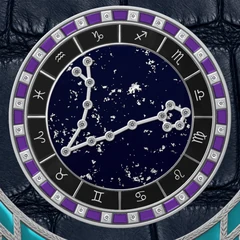
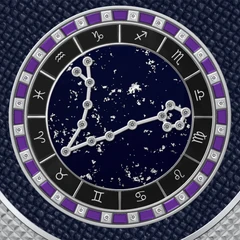
Sign looks set from the art director's codes (v2); preview swatches

Changed region(s): [[0.0, 0.0, 1.0, 1.0], [0.0583, 0.6708, 0.0875, 0.7]]

diff --git a/zodiac-duo.js b/zodiac-duo.js
@@ -24,7 +24,7 @@
 
   var SCRIPT_SRC = (document.currentScript && document.currentScript.src) || "";
   var ASSETS = CFG.assets || SCRIPT_SRC.replace(/[^/]*$/, "") + "assets";
-  var AV = "?v=m27"; // версия ассетов (медальоны v2) — сброс кэша слоёв и свотчей
+  var AV = "?v=m28"; // версия ассетов (медальоны v2) — сброс кэша слоёв и свотчей
   var M = window.ZD_MANIFEST;
   // Медальон в конструкторе чуть меньше слоя PSD (масштаб от центра); общий манифест не трогаем — лендинг видит исходный размер
   var MEDAL_SCALE = 0.9;
@@ -220,30 +220,30 @@
   // Сборки знаков: по одной на знак, палитра — от стихии, сочетания — по правилам цветового круга.
   var ELEM_TONE = { fire: L("Огонь", "Fire"), earth: L("Земля", "Earth"), air: L("Воздух", "Air"), water: L("Вода", "Water") };
   var PRESETS = [
-    { id: "aries", name: L("Пламя", "Flame"), el: "fire", harmony: L("Аналоговая тёплая гамма: красный питон, янтарная эмаль и рубины в жёлтом золоте — огонь от углей до искры.", "Analogous warm palette: red python, amber enamel and rubies in yellow gold."),
-      s: { frame: "gold", medal: "gold", medalOn: 1, plate: "python", plateColor: "red", ring: "gold", decor: "ruby", enamel: "#E8B04A", core: "red", panel: "solid", panelFrame: "gold", panelFill: "meteorite", panelEnamel: null, panelTex: 1, panelMetal: "gold", base: "starwhite" } },
+    { id: "aries", name: L("Пламя", "Flame"), el: "fire", harmony: L("Аналоговая тёплая гамма: красный крокодил, янтарная эмаль и рубины в жёлтом золоте.", "Analogous warm palette: red crocodile, amber enamel and rubies in yellow gold."),
+      s: { frame: "gold", medal: "gold", medalOn: 1, plate: "croc", plateColor: "red", ring: "gold", decor: "ruby", enamel: "#E8B04A", core: "red", panel: "solid", panelFrame: "gold", panelFill: "meteorite", panelEnamel: null, panelTex: 1, panelMetal: "gold", base: "starwhite" } },
     { id: "taurus", name: L("Сад Венеры", "Garden of Venus"), el: "earth", harmony: L("Комплементарная пара: пудрово-розовая кожа и розовое золото против изумрудной эмали.", "Complementary pair: powder-pink leather and rose gold against emerald enamel."),
       s: { frame: "rose", medal: "rose", medalOn: 1, plate: "calf", plateColor: "pink", ring: "rose", decor: "white", enamel: "#0D5E3C", core: "white", panel: "solid", panelFrame: "rose", panelFill: "meteorite", panelEnamel: null, panelTex: 1, panelMetal: "rose", base: "starwhite" } },
-    { id: "gemini", name: L("Двойной свет", "Twin light"), el: "air", harmony: L("Комплементарная пара жёлтый — синий на белом крокодиле; два металла и чёрно-белые камни — дуальность знака.", "Complementary yellow and blue on white crocodile; two metals and black-and-white stones for duality."),
-      s: { frame: "silver", medal: "gold", medalOn: 1, plate: "croc", plateColor: "white", ring: "silver", decor: "black", enamel: "#D9B84A", core: "bluesky", panel: "clear", panelFrame: "silver", panelFill: "enamel", panelEnamel: "#4F7FBF", panelTex: 1, panelMetal: "silver", base: "starwhite" } },
-    { id: "cancer", name: L("Лунный прилив", "Lunar tide"), el: "water", harmony: L("Аналоговая гамма: сапфир и бирюза на белой коже под лунным серебром.", "Analogous palette: sapphire and turquoise on white leather under lunar silver."),
-      s: { frame: "silver", medal: "silver", medalOn: 1, plate: "calf", plateColor: "white", ring: "silver", decor: "white", enamel: "#123E8C", core: "white", panel: "clear", panelFrame: "silver", panelFill: "enamel", panelEnamel: "#14808C", panelTex: 1, panelMetal: "silver", base: "starwhite" } },
-    { id: "leo", name: L("Солнце", "Sun"), el: "fire", harmony: L("Тёплая гамма на чёрном: золото и оранжевая эмаль на кованом карбоне — солнечный диск.", "Warm palette on black: gold and orange enamel on forged carbon — the solar disc."),
-      s: { frame: "gold", medal: "gold", medalOn: 1, plate: "carbon", plateColor: "black", ring: "gold", decor: "white", enamel: "#E07B1A", core: "red", panel: "solid", panelFrame: "gold", panelFill: "meteorite", panelEnamel: null, panelTex: 2, panelMetal: "gold", base: "nightsky" } },
+    { id: "gemini", name: L("Двойной свет", "Twin light"), el: "air", harmony: L("Светлая воздушная гамма: белый крокодил, серебро и дымчато-голубая эмаль.", "Light airy palette: white crocodile, silver and misty-blue enamel."),
+      s: { frame: "silver", medal: "silver", medalOn: 1, plate: "croc", plateColor: "white", ring: "silver", decor: "white", enamel: "#B3C4D5", core: "white", panel: "clear", panelFrame: "silver", panelFill: "enamel", panelEnamel: "#D6E2F0", panelTex: 1, panelMetal: "silver", base: "starwhite" } },
+    { id: "cancer", name: L("Лунный прилив", "Lunar tide"), el: "water", harmony: L("Аналоговая гамма: небесно-голубая кожа, васильковая эмаль и синее небо под лунным серебром.", "Analogous palette: sky-blue leather, cornflower enamel and blue sky under lunar silver."),
+      s: { frame: "silver", medal: "silver", medalOn: 1, plate: "calf", plateColor: "paleblue", ring: "silver", decor: "white", enamel: "#4772BD", core: "bluesky", panel: "solid", panelFrame: "silver", panelFill: "enamel", panelEnamel: "#14808C", panelTex: 1, panelMetal: "silver", base: "starwhite" } },
+    { id: "leo", name: L("Солнце", "Sun"), el: "fire", harmony: L("Контраст золота и чёрного: чёрный крокодил и чёрная эмаль — золото как солнечный диск.", "Gold against black: black crocodile and black enamel — gold as the solar disc."),
+      s: { frame: "gold", medal: "gold", medalOn: 1, plate: "croc", plateColor: "black", ring: "gold", decor: "white", enamel: "#000000", core: "red", panel: "solid", panelFrame: "gold", panelFill: "meteorite", panelEnamel: null, panelTex: 2, panelMetal: "gold", base: "nightsky" } },
     { id: "virgo", name: L("Жатва", "Harvest"), el: "earth", harmony: L("Аналоговая земляная гамма: натуральный питон, шалфей и слоновая кость в жёлтом золоте.", "Analogous earth palette: natural python, sage and ivory in yellow gold."),
       s: { frame: "gold", medal: "gold", medalOn: 1, plate: "python", plateColor: "natural", ring: "gold", decor: "white", enamel: "#7A8B5A", core: "white", panel: "clear", panelFrame: "gold", panelFill: "enamel", panelEnamel: "#EAE2CF", panelTex: 1, panelMetal: "gold", base: "starwhite" } },
     { id: "libra", name: L("Равновесие", "Balance"), el: "air", harmony: L("Пастельная комплементарная пара: пудрово-розовая эмаль и небесно-голубая кожа в равных долях.", "Pastel complementary pair: powder-pink enamel and sky-blue leather in equal measure."),
       s: { frame: "rose", medal: "rose", medalOn: 1, plate: "calf", plateColor: "paleblue", ring: "rose", decor: "white", enamel: "#C98BA0", core: "white", panel: "clear", panelFrame: "rose", panelFill: "enamel", panelEnamel: "#9FC3E0", panelTex: 1, panelMetal: "rose", base: "starwhite" } },
     { id: "scorpio", name: L("Глубина", "Depth"), el: "water", harmony: L("Аналоговая тёмная гамма: фиолетовый питон и глубокая морская бирюза в чёрном титане.", "Analogous dark palette: violet python and deep sea teal in black titanium."),
       s: { frame: "black", medal: "black", medalOn: 1, plate: "python", plateColor: "violet", ring: "black", decor: "metal", enamel: "#0F4C4A", core: "blacksky", panel: "clear", panelFrame: "black", panelFill: "meteorite", panelEnamel: null, panelTex: 1, panelMetal: "black", base: "nightsky" } },
-    { id: "sagittarius", name: L("Стрела", "Arrow"), el: "fire", harmony: L("Аналоговая гамма: бордо, терракота и розовое золото — огонь в движении.", "Analogous palette: bordeaux, terracotta and rose gold — fire in motion."),
-      s: { frame: "rose", medal: "rose", medalOn: 1, plate: "croc", plateColor: "burgundy", ring: "rose", decor: "white", enamel: "#C8461E", core: "white", panel: "clear", panelFrame: "rose", panelFill: "meteorite", panelEnamel: null, panelTex: 1, panelMetal: "rose", base: "starwhite" } },
+    { id: "sagittarius", name: L("Стрела", "Arrow"), el: "fire", harmony: L("Аналоговая гамма: бордо, тёмное вино и розовое золото — сдержанный огонь.", "Analogous palette: bordeaux, dark wine and rose gold — restrained fire."),
+      s: { frame: "rose", medal: "rose", medalOn: 1, plate: "croc", plateColor: "burgundy", ring: "rose", decor: "white", enamel: "#58232B", core: "white", panel: "clear", panelFrame: "rose", panelFill: "meteorite", panelEnamel: null, panelTex: 1, panelMetal: "rose", base: "starwhite" } },
     { id: "capricorn", name: L("Вершина", "Summit"), el: "earth", harmony: L("Строгая земляная гамма: кованый карбон и умбра в чёрном титане, золото — свет на вершине.", "Severe earth palette: forged carbon and umber in black titanium, with gold as light on the summit."),
       s: { frame: "black", medal: "gold", medalOn: 1, plate: "carbon", plateColor: "black", ring: "gold", decor: "black", enamel: "#6B4A2E", core: "blacksky", panel: "solid", panelFrame: "black", panelFill: "meteorite", panelEnamel: null, panelTex: 2, panelMetal: "black", base: "nightsky" } },
-    { id: "aquarius", name: L("Ток", "Current"), el: "air", harmony: L("Расщеплённая комплементарность: голубой питон и бирюза, рубины — точечный тёплый акцент.", "Split complementary: sky-blue python and turquoise, with rubies as a warm accent."),
-      s: { frame: "silver", medal: "silver", medalOn: 1, plate: "python", plateColor: "blue", ring: "silver", decor: "ruby", enamel: "#14808C", core: "bluesky", panel: "solid", panelFrame: "silver", panelFill: "meteorite", panelEnamel: null, panelTex: 1, panelMetal: "silver", base: "nightsky" } },
-    { id: "pisces", name: L("Океан", "Ocean"), el: "water", harmony: L("Аналоговая гамма: аметист, тёмно-синий крокодил и морская волна — переливы глубины.", "Analogous palette: amethyst, navy crocodile and sea green — the shimmer of the deep."),
-      s: { frame: "silver", medal: "silver", medalOn: 1, plate: "croc", plateColor: "navy", ring: "silver", decor: "white", enamel: "#5B2A86", core: "bluesky", panel: "clear", panelFrame: "silver", panelFill: "enamel", panelEnamel: "#14808C", panelTex: 1, panelMetal: "silver", base: "nightsky" } }
+    { id: "aquarius", name: L("Ток", "Current"), el: "air", harmony: L("Холодная гамма: тёмно-синий крокодил и стальная синяя эмаль, рубины — тёплый акцент.", "Cool palette: navy crocodile and steel-blue enamel, with rubies as a warm accent."),
+      s: { frame: "silver", medal: "silver", medalOn: 1, plate: "croc", plateColor: "navy", ring: "silver", decor: "ruby", enamel: "#2F4F6F", core: "white", panel: "solid", panelFrame: "silver", panelFill: "meteorite", panelEnamel: null, panelTex: 1, panelMetal: "silver", base: "nightsky" } },
+    { id: "pisces", name: L("Океан", "Ocean"), el: "water", harmony: L("Аналоговая гамма: аметист, тёмно-синяя кожа и морская волна — переливы глубины.", "Analogous palette: amethyst, navy leather and sea green — the shimmer of the deep."),
+      s: { frame: "silver", medal: "silver", medalOn: 1, plate: "calf", plateColor: "navy", ring: "silver", decor: "white", enamel: "#5B2A86", core: "bluesky", panel: "solid", panelFrame: "silver", panelFill: "enamel", panelEnamel: "#14808C", panelTex: 1, panelMetal: "silver", base: "nightsky" } }
   ];
 
   var STEP_IDS = ["sign", "base", "frame", "plate", "ring", "medal", "panel", "summary"];

diff --git a/index.html b/index.html
@@ -249,7 +249,7 @@
     };
   </script>
   <script src="assets/manifest.js?v=20261011r"></script>
-  <script src="zodiac-duo.js?v=20261015ps2"></script>
+  <script src="zodiac-duo.js?v=20261015ps3"></script>
   <script src="landing/landing.js?v=20"></script>
   <script type="importmap">
     { "imports": {

diff --git a/demo.html b/demo.html
@@ -40,6 +40,6 @@
     };
   </script>
   <script src="assets/manifest.js?v=20261011r"></script>
-  <script src="zodiac-duo.js?v=20261015ps2"></script>
+  <script src="zodiac-duo.js?v=20261015ps3"></script>
 </body>
 </html>
